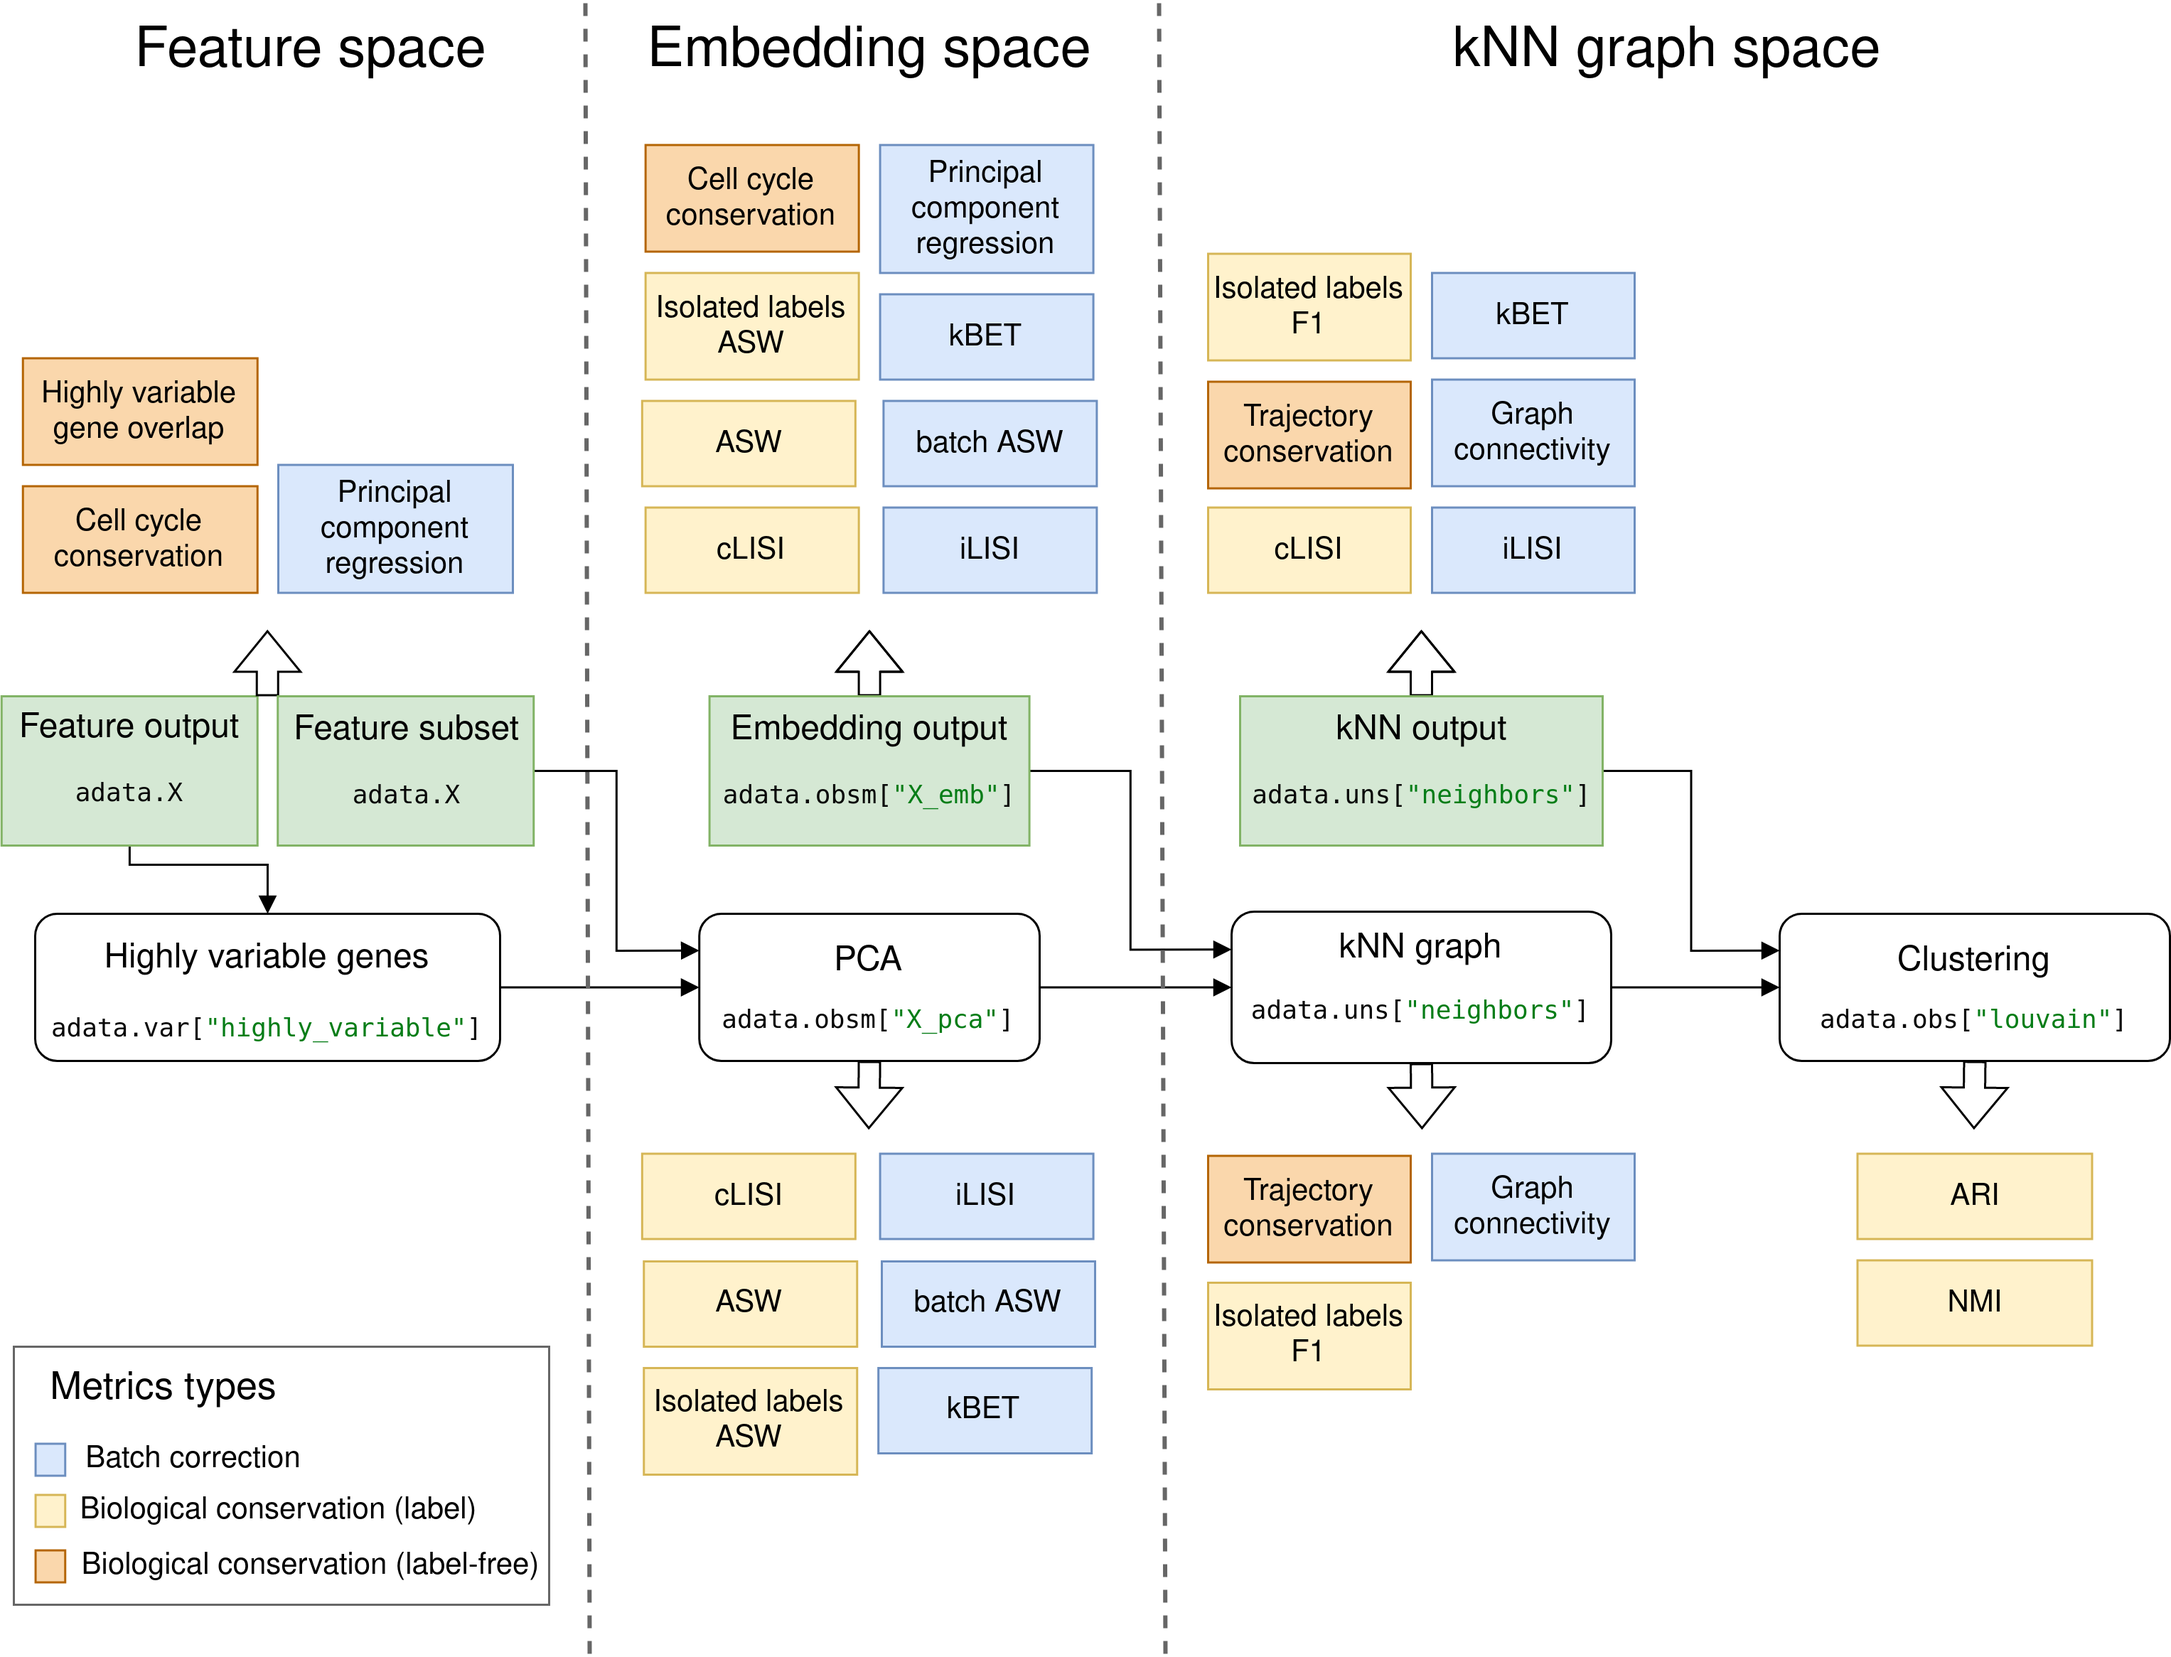
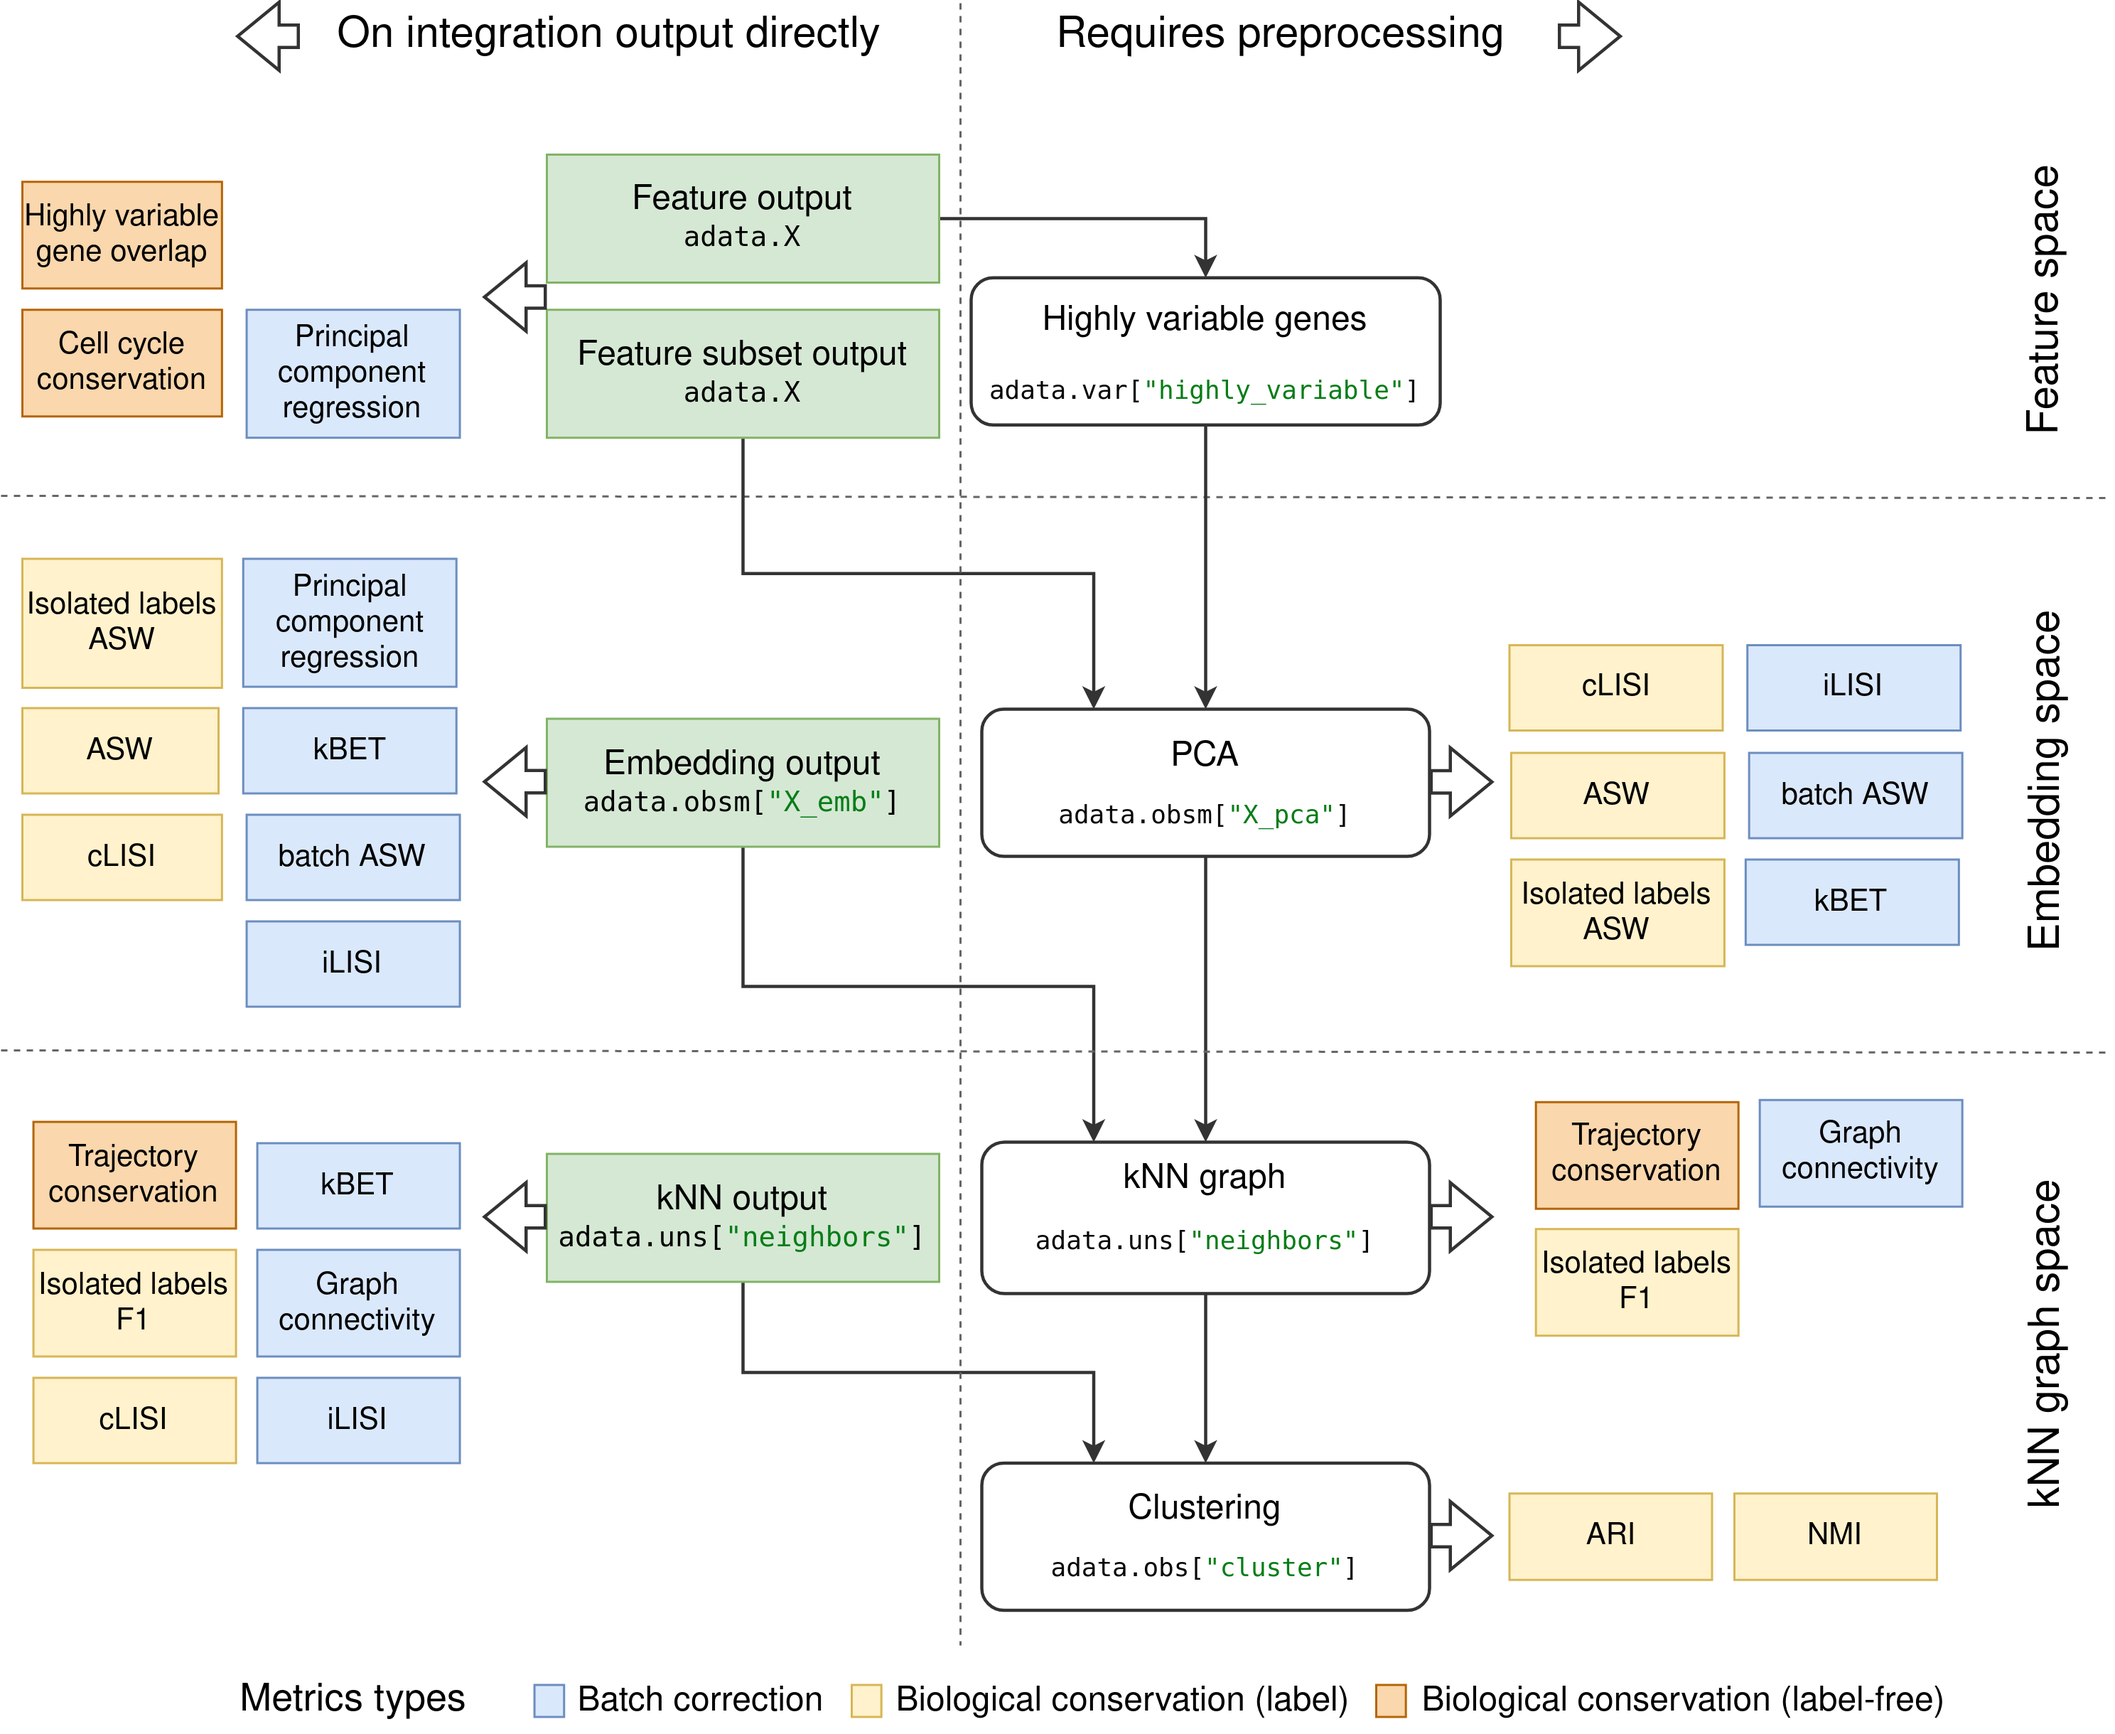
update metrics preprocessing description

diff --git a/docs/source/scib_metrics.rst b/docs/source/scib_metrics.rst
@@ -15,12 +15,26 @@ Preprocessing data for metrics
 The ``anndata`` objects returned by the integration methods require some processing for most metrics.
 This involves feature selection (highly variable gene selection), PCA, kNN graph computation and clustering.
 For preprocessing, ``scib`` provides the function :func:`~scib.preprocessing.reduce_data`.
-Which preprocessing steps are needed, relies on the output type of the integration and the metric.
+Whether preprocessing steps are needed, and which part of the anndata object preprocessing should be performed on
+depends on the output type of the integration and the metric.
+Output types of integration methods can be
+
+    1. feature output: a corrected count matrix
+    2. embedding output:corrected embedding
+    3. kNN output: corrected kNN graph
+
+Each metrics assumes that the representation it requires (e.g. count matrix, embedding, kNN graph) is available in the
+``anndata`` object.
+If that is not the case, the data needs to be preprocessed accordingly or, for cases where that is not possible, the
+metric cannot be applied to that output type.
 
 .. figure:: _static/metrics_workflow.png
    :alt: metrics workflow
 
    Overview of metrics with relation to integration outputs and preprocessing steps.
+   For metrics that require the same data representation as the integration output type, no preprocessing is required
+   (metrics on the left side of the plot). For higher dimensional integration outputs than the required metric input
+   (e.g. feature output for embedding metrics), the user needs to preprocess the data (right side).
 
 
 Biological Conservation Metrics
